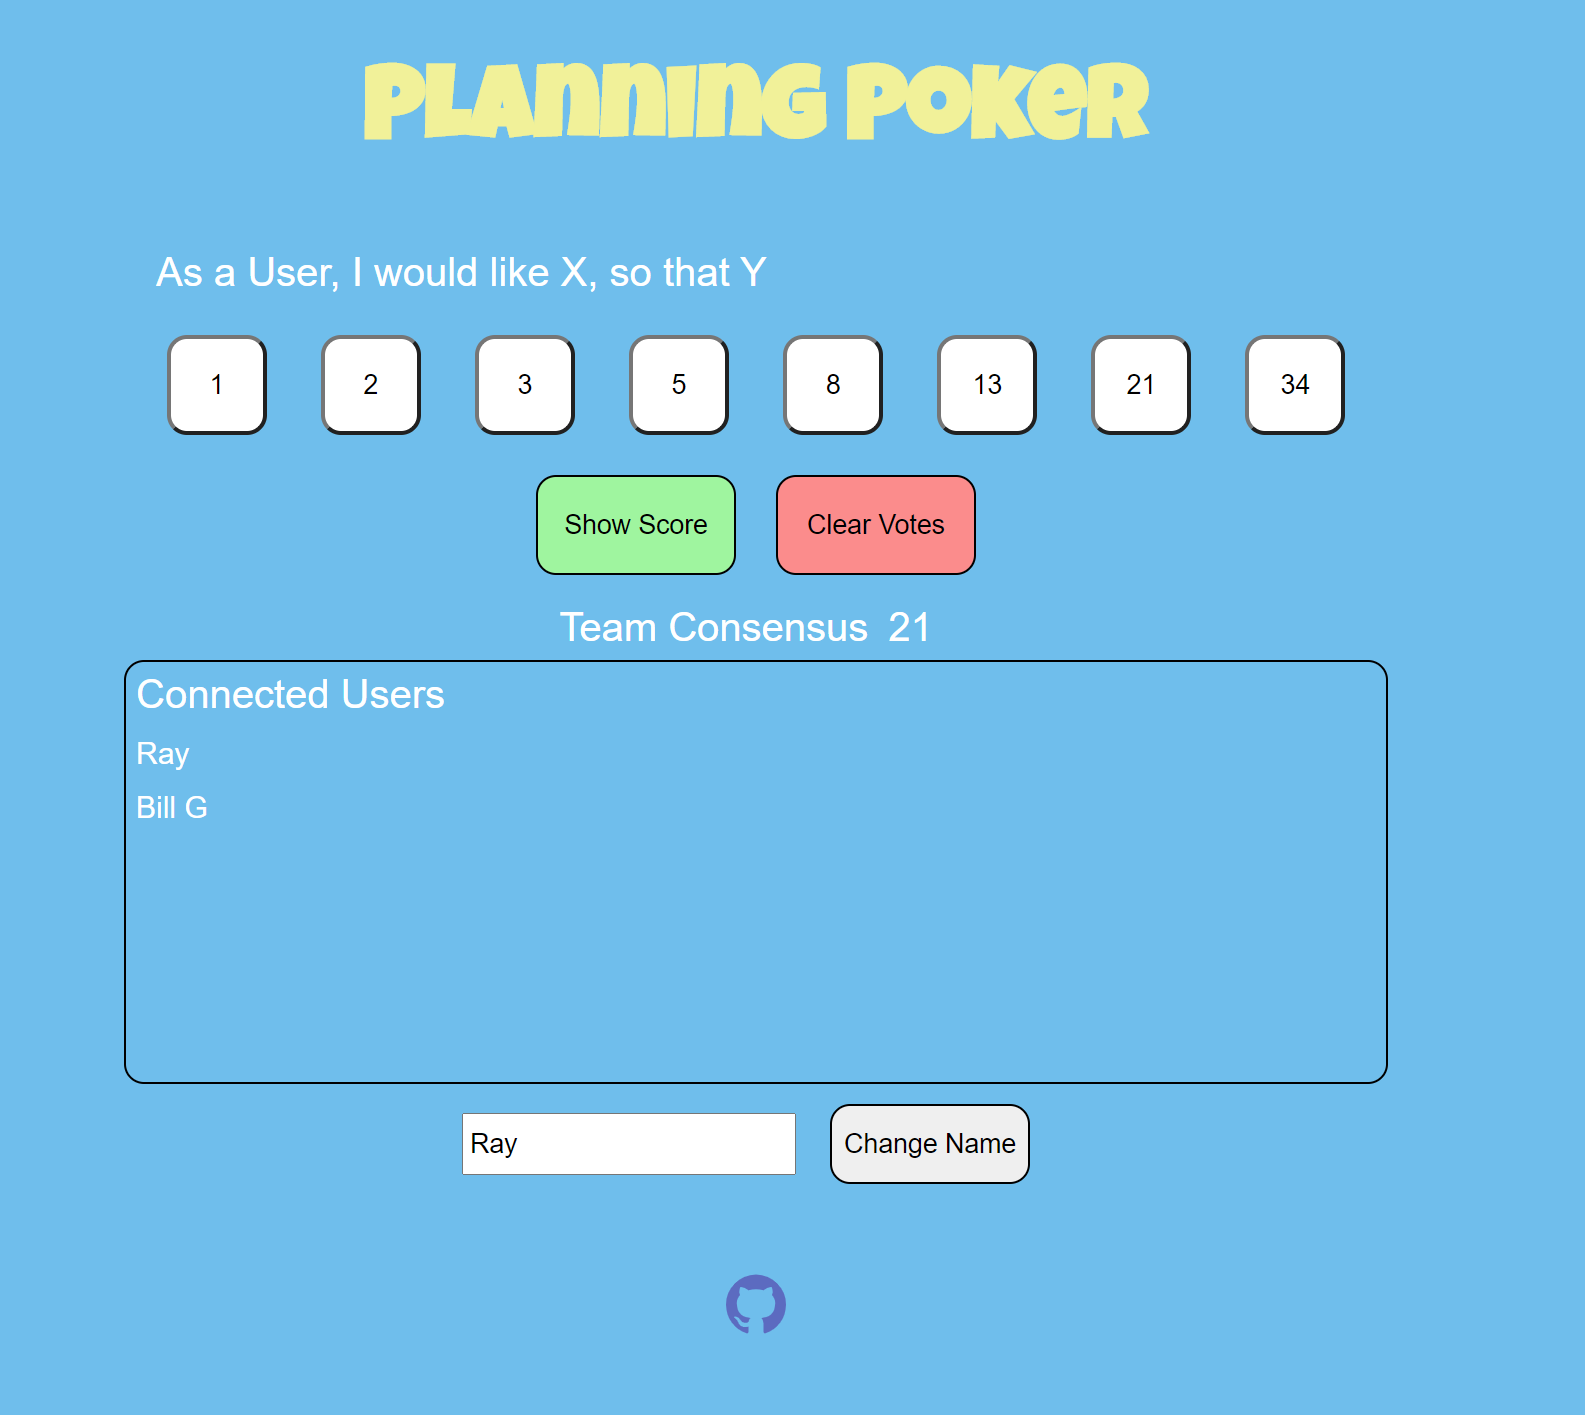
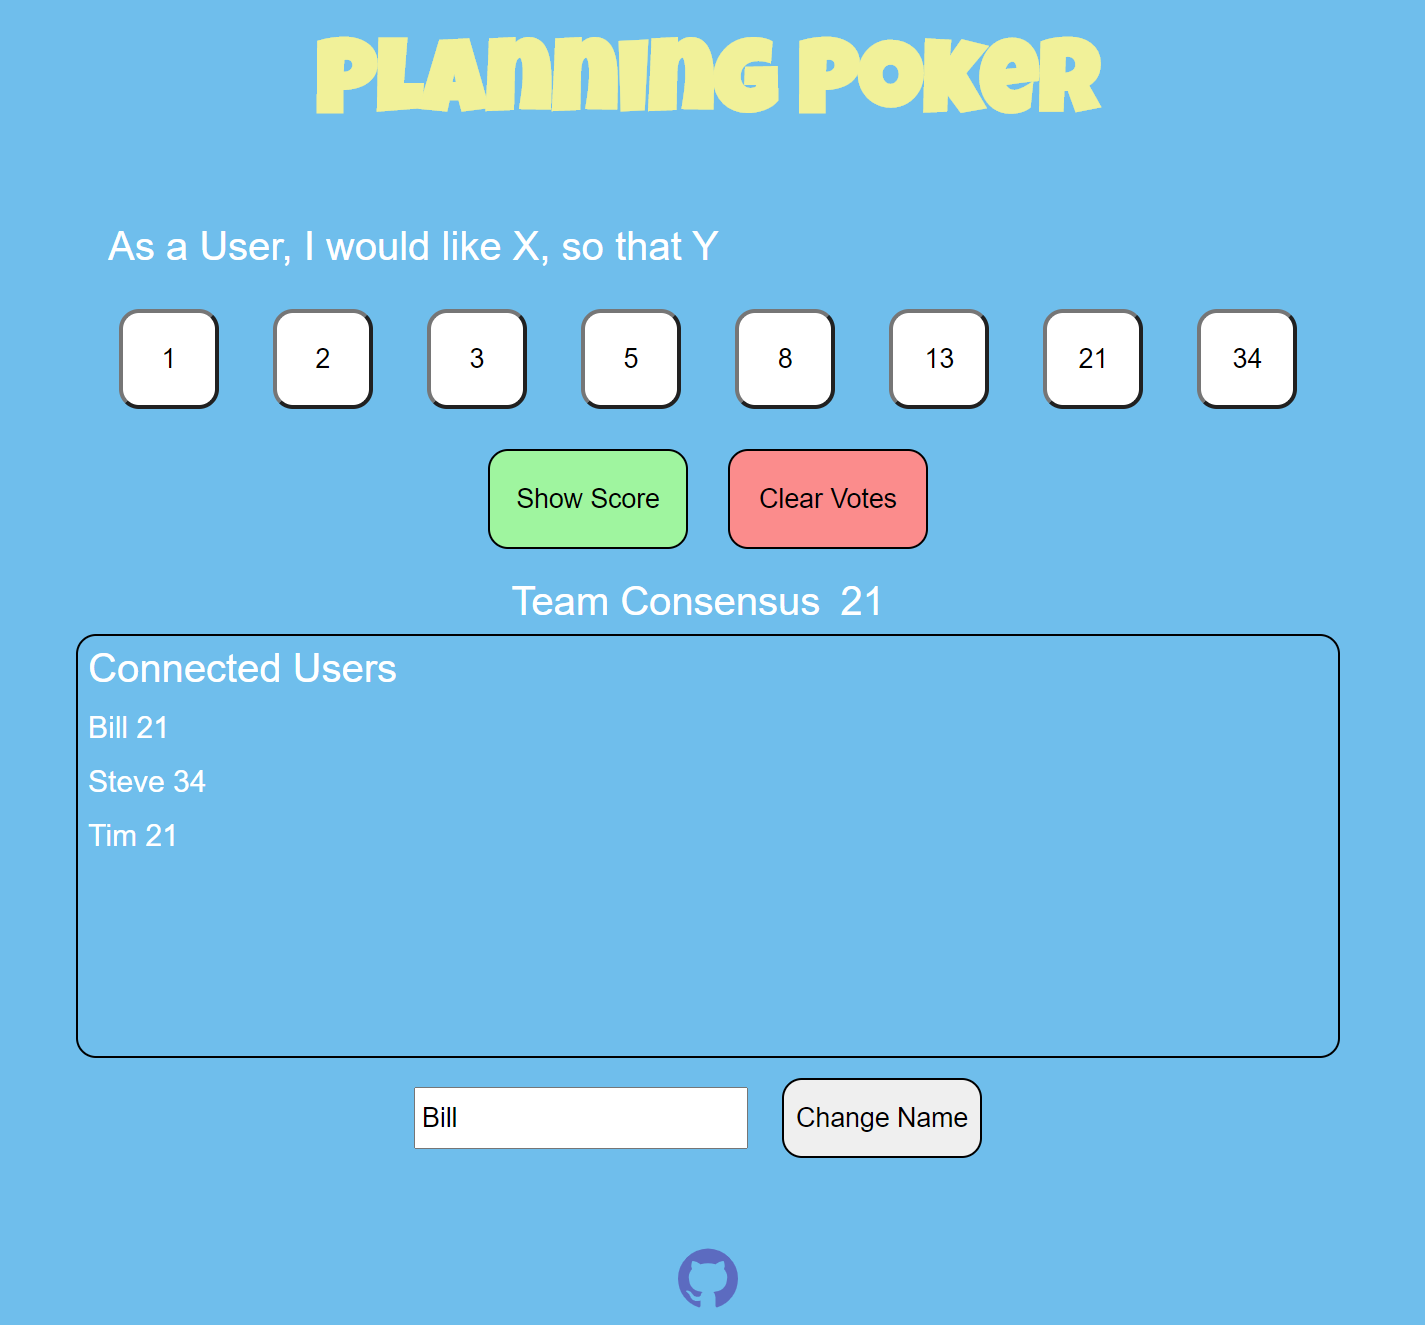
Added voting logic

diff --git a/public/index.html b/public/index.html
@@ -20,14 +20,14 @@
         </div>
 
         <div class="ScoreButtons">
-            <button type="button">1</button>
-            <button type="button">2</button>
-            <button type="button">3</button>
-            <button type="button">5</button>
-            <button type="button">8</button>
-            <button type="button">13</button>
-            <button type="button">21</button>
-            <button type="button">34</button>
+            <button type="button" onclick="SubmitScore(this)" value="1">1</button>
+            <button type="button" onclick="SubmitScore(this)" value="2">2</button>
+            <button type="button" onclick="SubmitScore(this)" value="3">3</button>
+            <button type="button" onclick="SubmitScore(this)" value="5">5</button>
+            <button type="button" onclick="SubmitScore(this)" value="8">8</button>
+            <button type="button" onclick="SubmitScore(this)" value="13">13</button>
+            <button type="button" onclick="SubmitScore(this)" value="21">21</button>
+            <button type="button" onclick="SubmitScore(this)" value="34">34</button>
         </div>
 
         <div class="ControlButtons">

diff --git a/public/scripts/engine.js b/public/scripts/engine.js
@@ -27,7 +27,7 @@ this.socket.on('disconnect', function (userId) {
 function RenderUsers() {
     var userMarkup = '';
     Object.keys(connectedUsers).forEach(function (id) {
-        userMarkup += '<div>' + connectedUsers[id].name + ' </div>';
+        userMarkup += '<div>' + connectedUsers[id].name + ' ' + connectedUsers[id].score + ' </div > ';
     });
 
     document.getElementById('UserList').innerHTML = userMarkup;
@@ -57,10 +57,13 @@ document.getElementById('storyDisplay')
     });
 
 
-function UpdateName()
-{
+function UpdateName() {
     console.log(document.getElementById('username').value);
     // Push update back to server
     this.socket.emit('nameUpdatedByUser', document.getElementById('username').value);
-    
+
+}
+
+function SubmitScore(element) {
+    this.socket.emit('submitScore', element.getAttribute("value"));
 }

diff --git a/server.js b/server.js
@@ -26,7 +26,8 @@ io.on('connection', function (socket) {
     // create a new user and add it to our connections object
     connections[socket.id] = {
         name: "User",
-        userId: socket.id
+        userId: socket.id,
+        score: 0
     };
 
     // update all other users of the new user
@@ -60,6 +61,13 @@ io.on('connection', function (socket) {
     socket.on('nameUpdatedByUser', function (username) {
         connections[socket.id].name = username;
         // Emit name change to users
+        io.emit('currentUsers', connections);
+    });
+
+    // When a user casts a vote
+    socket.on('submitScore', function (score) {
+        connections[socket.id].score = score;
+        // Emit score to all users
         io.emit('currentUsers', connections);
     });
 
